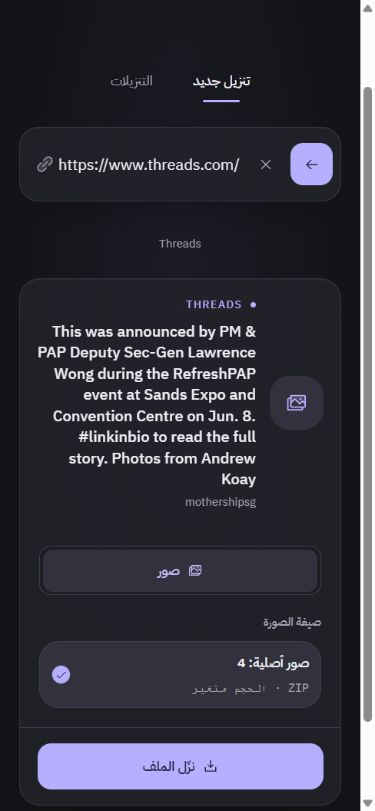
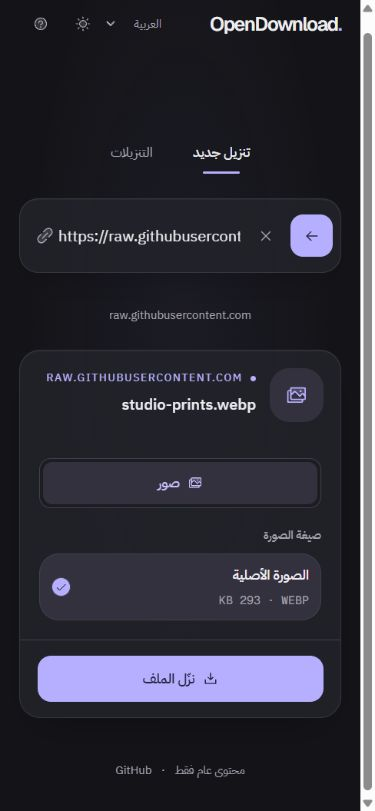
docs: demonstrate original image selection with owned artwork [skip blitz]

diff --git a/docs/SCREENSHOTS.md b/docs/SCREENSHOTS.md
@@ -5,14 +5,14 @@ real [public application](https://opendownload.lord.blitz.cloud/), after applica
 PR #39 deployed. These are native JPEG viewport captures, not fixture screenshots,
 generated UI, edited mockups or composites.
 
-| File in `docs/assets/`           | State                                | Native dimensions |
-| -------------------------------- | ------------------------------------ | ----------------- |
-| `workspace-video-v2.jpg`         | English light, public Threads video  | 1065x927          |
-| `workspace-dark-v2.jpg`          | English dark, same public video      | 1065x927          |
-| `workspace-arabic-mobile-v2.jpg` | Arabic dark, public image collection | 375x811           |
+| File in `docs/assets/`           | State                               | Native dimensions |
+| -------------------------------- | ----------------------------------- | ----------------- |
+| `workspace-video-v2.jpg`         | English light, public Threads video | 1065x927          |
+| `workspace-dark-v2.jpg`          | English dark, same public video     | 1065x927          |
+| `workspace-arabic-mobile-v2.jpg` | Arabic dark, original project image | 375x811           |
 
 Video source: `https://www.threads.com/@pubity/post/Cxd59tZLMrd`.
-Image collection: `https://www.threads.com/@mothershipsg/post/C78RkLtS8sj`.
+Image source: `https://raw.githubusercontent.com/Lord-shaban/OpenDownload/cafeee0eba57e9e90de4be4349b9f34b90f8e709/docs/assets/studio-prints.webp`.
 Source titles and thumbnails remain credited in the application; no ownership or
 endorsement of that media is claimed. Earlier release screenshots remain in the
 repository for their historical verification records but are not the README hero.
@@ -23,3 +23,9 @@ It was generated independently with the built-in `image_gen` tool and encoded as
 WebP at original 1536x1024 resolution. Original files are retained in Codex.
 The final prompt and the website's complete asset inventory are recorded in
 [website asset provenance](https://github.com/Lord-shaban/OpenDownload-Website/blob/main/docs/ASSETS.md).
+
+`studio-prints.webp` is another original generated image, published in this
+repository to exercise direct original-image analysis using owned content.
+The phone capture shows its actual WebP format and reported size, without editing
+the application or inventing metadata. Its generation prompt is recorded in the
+same website provenance document.
